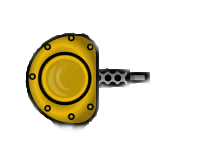
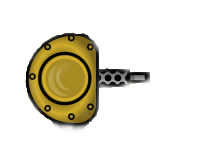
New level and texture

Changed region(s): [[0.1456, 0.2368, 0.466, 0.8158], [0.4369, 0.2895, 0.466, 0.3158]]

diff --git a/src/BurstTank.cpp b/src/BurstTank.cpp
@@ -2,9 +2,9 @@
 
 BurstTank::BurstTank(sf::Vector2f initial_pos, PlayerTank &player)
   : EnemyTank(initial_pos, BURST_TANK_SPEED, player, PLAYER_FIRE_COOLDOWN) { // same cooldown as player
-    chassis_texture_.loadFromFile("../src/assets/tanks/BlueTankNoTurret.png");
+    chassis_texture_.loadFromFile("../src/assets/tanks/YellowTankNoTurret.png");
     tank_shape_.setTexture(&chassis_texture_);
-    turret_texture_.loadFromFile("../src/assets/tanks/BlueTankTurret.png");
+    turret_texture_.loadFromFile("../src/assets/tanks/YellowTankTurret.png");
     turret_shape_.setTexture(&turret_texture_);
     points_ = 250;
   }
